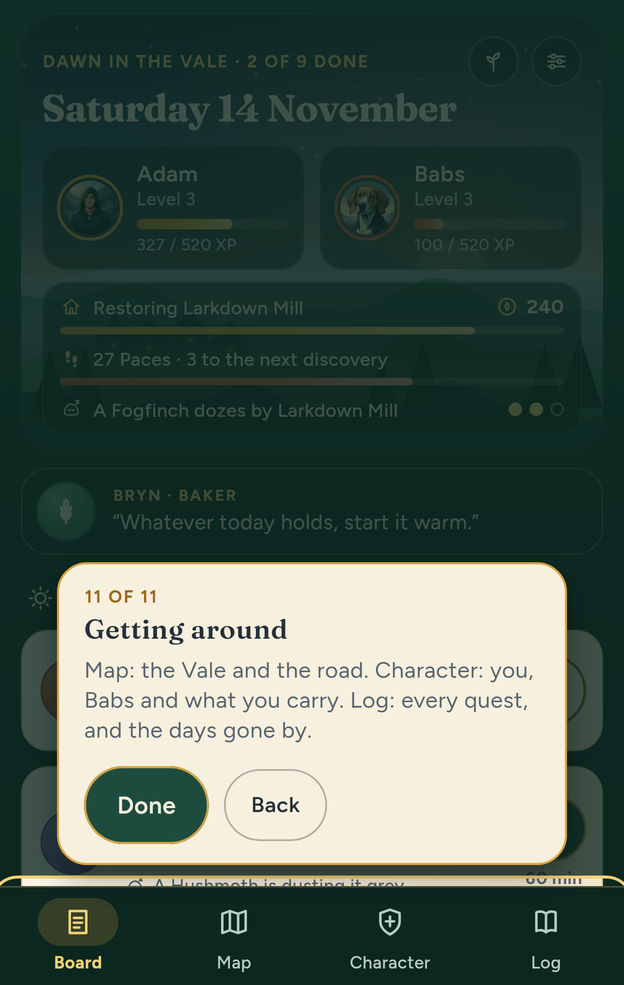
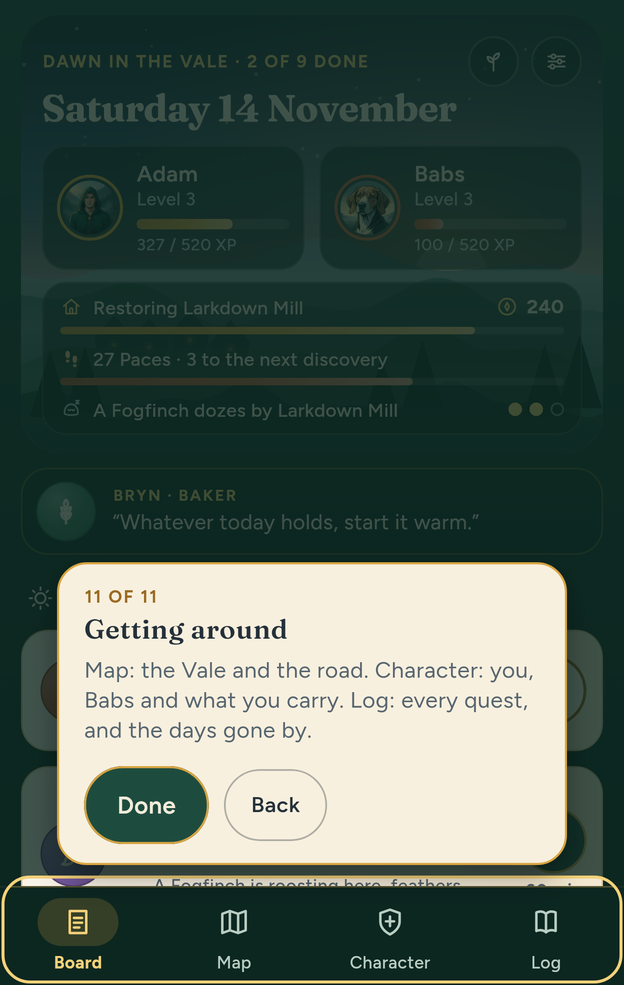
Docs: 0.4.0 build details and refreshed tour screenshots
Claude-Session: https://claude.ai/code/session_0188ymxc5eutxyKhrK8tR1x8

diff --git a/docs/PHASE-4.md b/docs/PHASE-4.md
@@ -116,8 +116,8 @@ crease.
 | Check | Result |
 |---|---|
 | `flutter analyze` | No issues |
-| `flutter test` | TESTCOUNT tests, all passing |
-| `flutter build apk --debug` | BUILDLINE |
+| `flutter test` | 361 tests, all passing |
+| `flutter build apk --debug` | Succeeds (commit `c0d4e11`, run 43573409549): 162,921,267 bytes, SHA-256 `c5b986f0…5542c62`, signed with the fixed key, published as the `latest-debug` release |
 | The creature: turns, stirs, waking once, the gift, no XP | `test/rules/daily_still_test.dart`, `test/data/daily_still_test.dart` |
 | Glucose: the average kept and exported, typed readings untouched, nothing for a day never opened | `test/data/glucose_test.dart` |
 | The creature, glucose and the tour on screen | `test/ui/phase4_flows_test.dart`, against a stand-in device |

diff --git a/docs/ACCEPTANCE.md b/docs/ACCEPTANCE.md
@@ -6,6 +6,11 @@ Updated the same night with Adam's run of 0.3.0 on his Galaxy Z Fold 8 and
 the three files the app wrote into his vault. Version 0.3.1 followed
 (commit `008449d`, run 43568359044, 317 tests passing, published as the
 `latest-debug` release); it changes only how calendar suggestions are offered.
+Version 0.4.0 (commit `c0d4e11`, run 43573409549, 361 tests passing) adds
+what Adam asked for after that run and is the build on the release now. It
+has not been run on a phone yet; see [`PHASE-4.md`](PHASE-4.md). The twelve
+items below are still covered by its test suite, and the device results
+recorded here are from 0.3.0.
 
 **How it was run.** Claude's workspace cannot build Flutter, so the build,
 the analyser and all the tests ran on GitHub Actions and the results were
